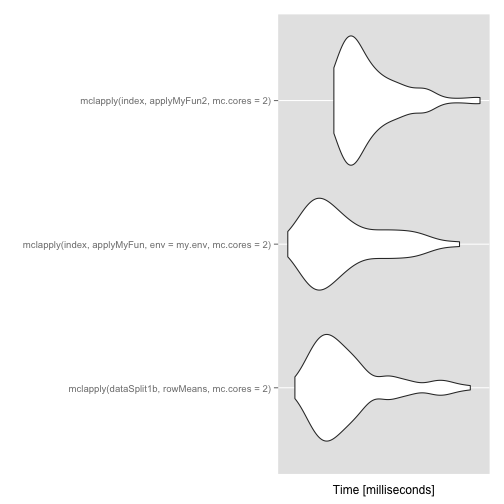
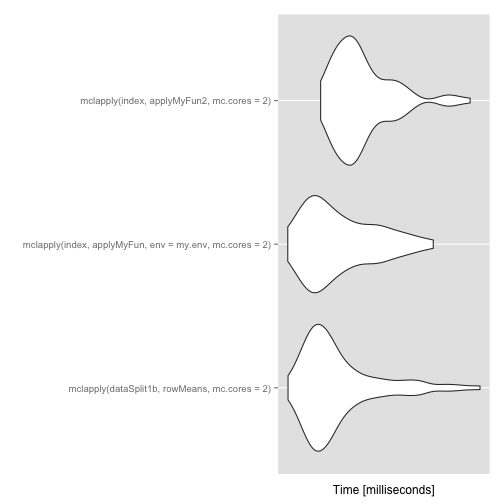
Updated after Ryan's feedback

diff --git a/_posts/2013-11-14-Reducing-memory-overhead-when-using-mclapply.md b/_posts/2013-11-14-Reducing-memory-overhead-when-using-mclapply.md
@@ -151,7 +151,7 @@ identical(res1b, res3)
 
 ## Computation time comparison
 
-Computation time wise, approaches 2 and 3 do not seem very different. Approach 1b seems a tiny bit faster.
+Computation time wise, approaches 2 and 3 do not seem very different. Approach 1b seems a tiny bit faster. [Edit: the order of the best approach might change slightly if you re-run this code]
 
 
 {% highlight r %}
@@ -166,13 +166,13 @@ micro
 {% highlight text %}
 ## Unit: milliseconds
 ##                                                     expr   min    lq
-##            mclapply(dataSplit1b, rowMeans, mc.cores = 2) 20.29 23.77
-##  mclapply(index, applyMyFun, env = my.env, mc.cores = 2) 19.41 23.14
-##               mclapply(index, applyMyFun2, mc.cores = 2) 25.63 27.87
+##            mclapply(dataSplit1b, rowMeans, mc.cores = 2) 19.44 23.33
+##  mclapply(index, applyMyFun, env = my.env, mc.cores = 2) 19.38 23.14
+##               mclapply(index, applyMyFun2, mc.cores = 2) 24.53 28.14
 ##  median    uq   max neval
-##   26.33 29.74 57.55   100
-##   25.27 32.44 54.12   100
-##   29.51 34.88 60.71   100
+##   25.61 30.20 77.44   100
+##   25.98 34.83 55.44   100
+##   31.16 35.99 72.23   100
 {% endhighlight %}
 
 
@@ -194,6 +194,10 @@ Re-doing the previous test but using 20 cores lead to very similar wall clock co
 Using 20 cores with previously created data files (either the split data for approaches 1b and 2, or the chunk files for approach 3) has a very different memory footprint. Approach 1b used in average 6.0744G RAM, approach 2 used 4.2647G RAM
 , and approach 3 used 2.6545G RAM. 
 
+### Edit
+
+Ryan from (<span class="showtooltip" title="(2013). ' [Bioc-devel] Trying to reduce the memory overhead when using mclapply .' ."><a href="https://stat.ethz.ch/pipermail/bioc-devel/2013-November/004930.html">Ryan 2013</a></span>) contributed a fourth approach which used 6.794G RAM when starting from scratch with 20 cores. This approach definitely beats the other ones under the condition of starting from scratch. Note that just creating the `data` object uses 558.938M RAM: multiplied by 20 it would be around 10.92G RAM. 
+
 ## Conclusions
 
 Using 2 or 20 cores, approach 2 beat by a very small margin approaches 3 and 1b in terms of memory usage. However, all approaches failed in terms of not having the memory blow up as you increase the number of cores when starting from scratch. 
@@ -213,6 +217,8 @@ Citations made with `knitcitations` (<span class="showtooltip" title="Boettiger 
 -  lockedoff,   (2012) Using mclapply, foreach, or something else in [r] to operate on an object in parallel?.  *Using mclapply, foreach, or something else in [r] to operate on an object in parallel? - Stack Overflow*  [http://stackoverflow.com/questions/11036702/using-mclapply-foreach-or-something-else-in-r-to-operate-on-an-object-in-par](http://stackoverflow.com/questions/11036702/using-mclapply-foreach-or-something-else-in-r-to-operate-on-an-object-in-par)
 -   [R-sig-hpc] mclapply: rm intermediate objects and returning	memory
    .  [https://mailman.stat.ethz.ch/pipermail/r-sig-hpc/2012-October/001534.html](https://mailman.stat.ethz.ch/pipermail/r-sig-hpc/2012-October/001534.html)
+-   [Bioc-devel] Trying to reduce the memory overhead when using mclapply
+   .  [https://stat.ethz.ch/pipermail/bioc-devel/2013-November/004930.html](https://stat.ethz.ch/pipermail/bioc-devel/2013-November/004930.html)
 - Carl Boettiger,   (2013) knitcitations: Citations for knitr markdown files.  [http://CRAN.R-project.org/package=knitcitations](http://CRAN.R-project.org/package=knitcitations)
 
 
@@ -237,18 +243,18 @@ sessionInfo()
 ## [8] base     
 ## 
 ## other attached packages:
-## [1] microbenchmark_1.3-0 knitrBootstrap_0.9.0 ggplot2_0.9.3.1     
-## [4] knitcitations_0.4-7  bibtex_0.3-6         knitr_1.5           
+## [1] ggplot2_0.9.3.1      microbenchmark_1.3-0 knitcitations_0.4-7 
+## [4] bibtex_0.3-6         knitr_1.5           
 ## 
 ## loaded via a namespace (and not attached):
 ##  [1] codetools_0.2-8    colorspace_1.2-4   dichromat_2.0-0   
 ##  [4] digest_0.6.3       evaluate_0.5.1     formatR_0.10      
 ##  [7] grid_3.0.2         gtable_0.1.2       httr_0.2          
-## [10] labeling_0.2       markdown_0.6.3     MASS_7.3-29       
-## [13] munsell_0.4.2      plyr_1.8           proto_0.3-10      
-## [16] RColorBrewer_1.0-5 RCurl_1.95-4.1     reshape2_1.2.2    
-## [19] scales_0.2.3       stringr_0.6.2      tools_3.0.2       
-## [22] XML_3.95-0.2       xtable_1.7-1
+## [10] labeling_0.2       MASS_7.3-29        munsell_0.4.2     
+## [13] plyr_1.8           proto_0.3-10       RColorBrewer_1.0-5
+## [16] RCurl_1.95-4.1     reshape2_1.2.2     scales_0.2.3      
+## [19] stringr_0.6.2      tools_3.0.2        XML_3.95-0.2      
+## [22] xtable_1.7-1
 {% endhighlight %}
 
 
